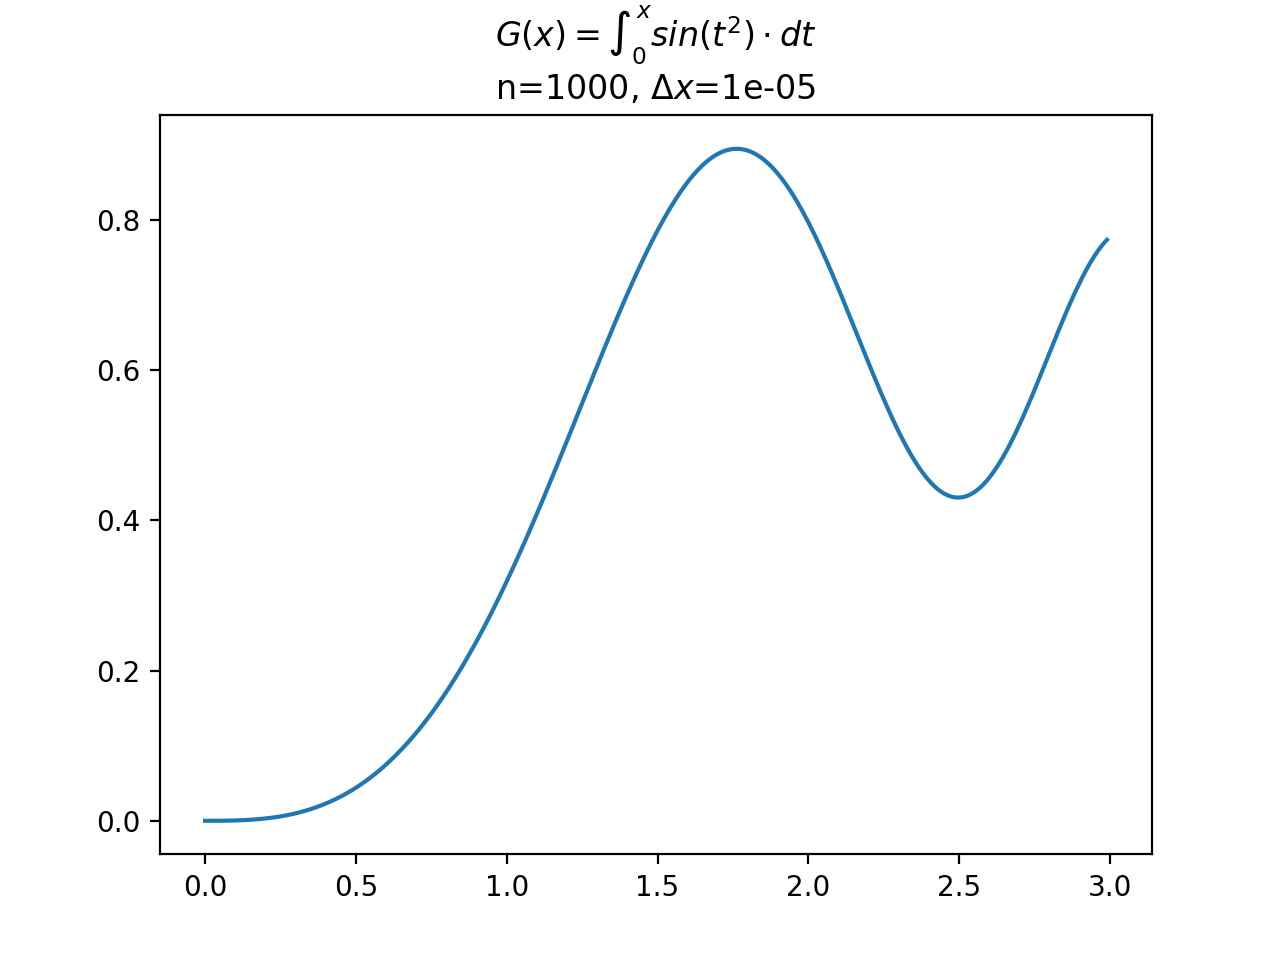
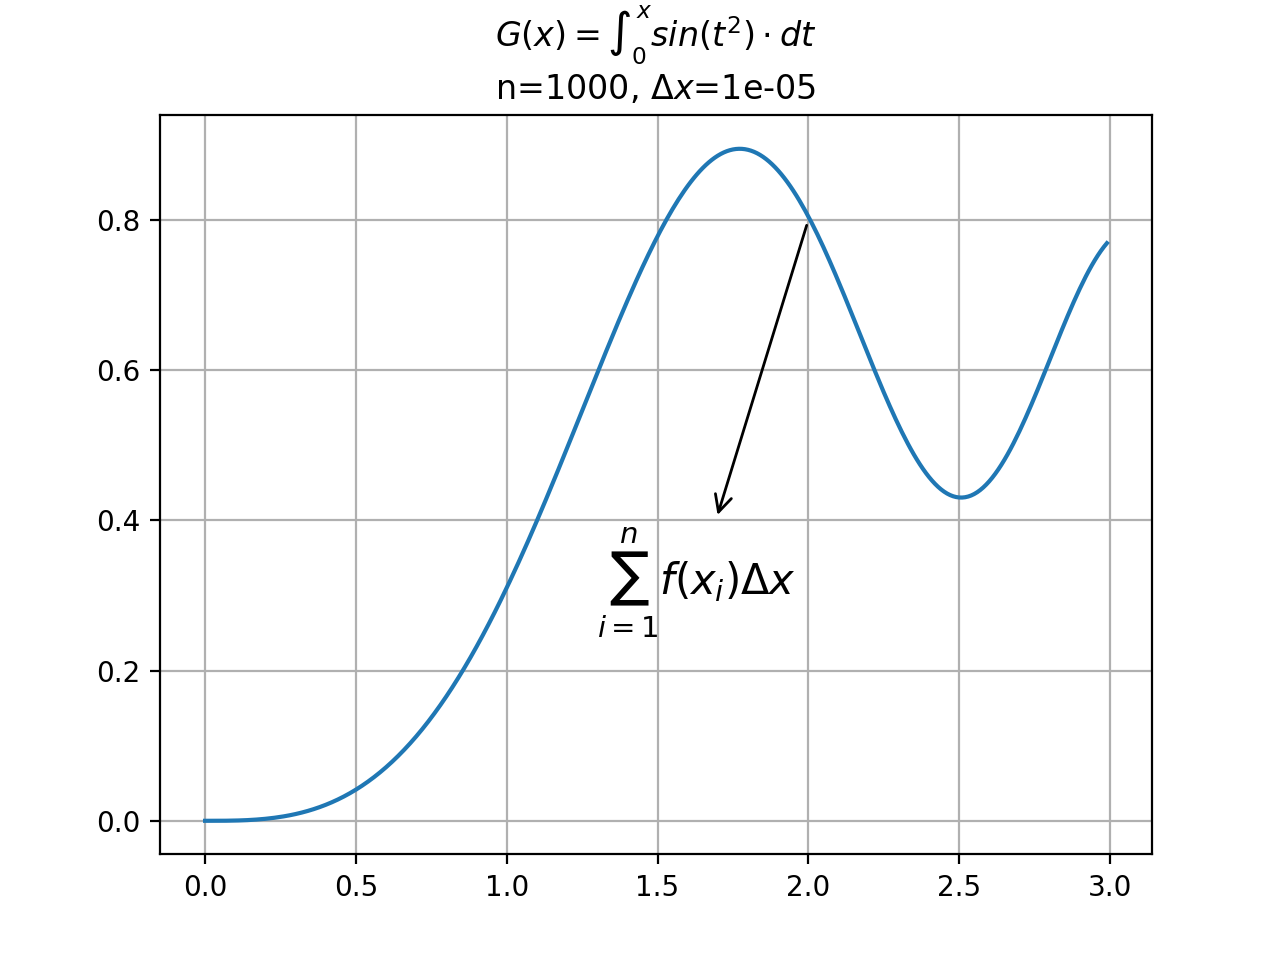
dibujitos

diff --git a/calc_v2.py b/calc_v2.py
@@ -12,6 +12,8 @@ g_x = r'$G(x)=\int_{0}^{x} sin(t^2) \cdot dt$'
 delta = r'$\Delta{x}$'
 title = f'{g_x}\nn={rectangles}, {delta}={dx}'
 
+sum_txt =r'$\sum_{i=1}^{n}f(x_{i})\Delta{x}$'
+
 def integral(a, b, i):
     suma = 0
     j = 1
@@ -27,16 +29,19 @@ i=start
 x = []
 y = []
 while i < end:
-    a=i/aux
-    i+=1
+    # a=i/aux
     b=i/aux
+    i+=1
     suma = integral(0, b, i)
-    #suma = integral(a, b, i)
-    x.append(a)
+    x.append(b)
     y.append(suma)
 
 #for p in lista: print(p)
 
 plt.plot(x,y)
+texto = plt.annotate(sum_txt, xy = (2.0,0.8), xytext = (1.3, 0.3), fontsize=15,
+        arrowprops=dict(arrowstyle="<-", connectionstyle="arc3,rad=0"))
+
+plt.grid()
 plt.title(title)
 plt.savefig('quiz/0.png', dpi = 200)
